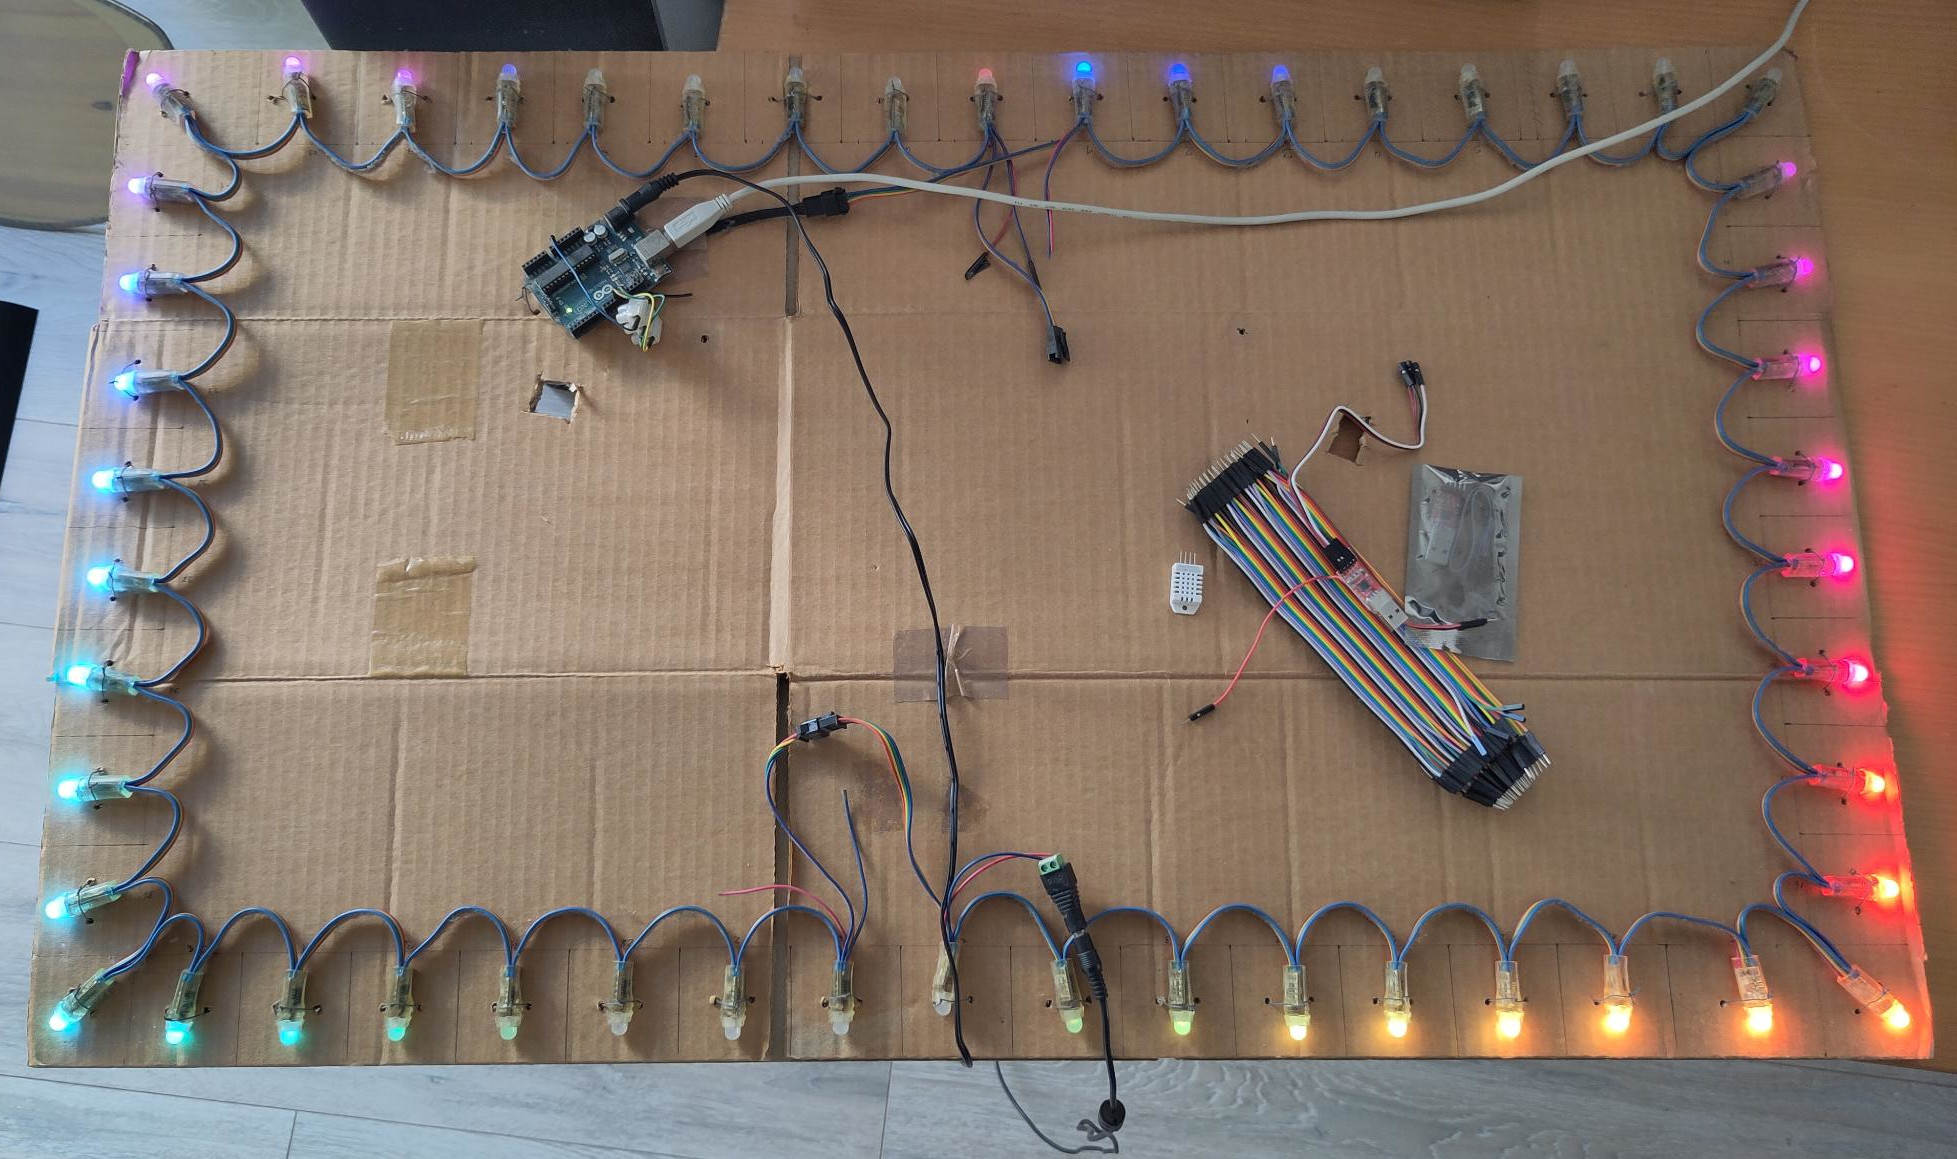
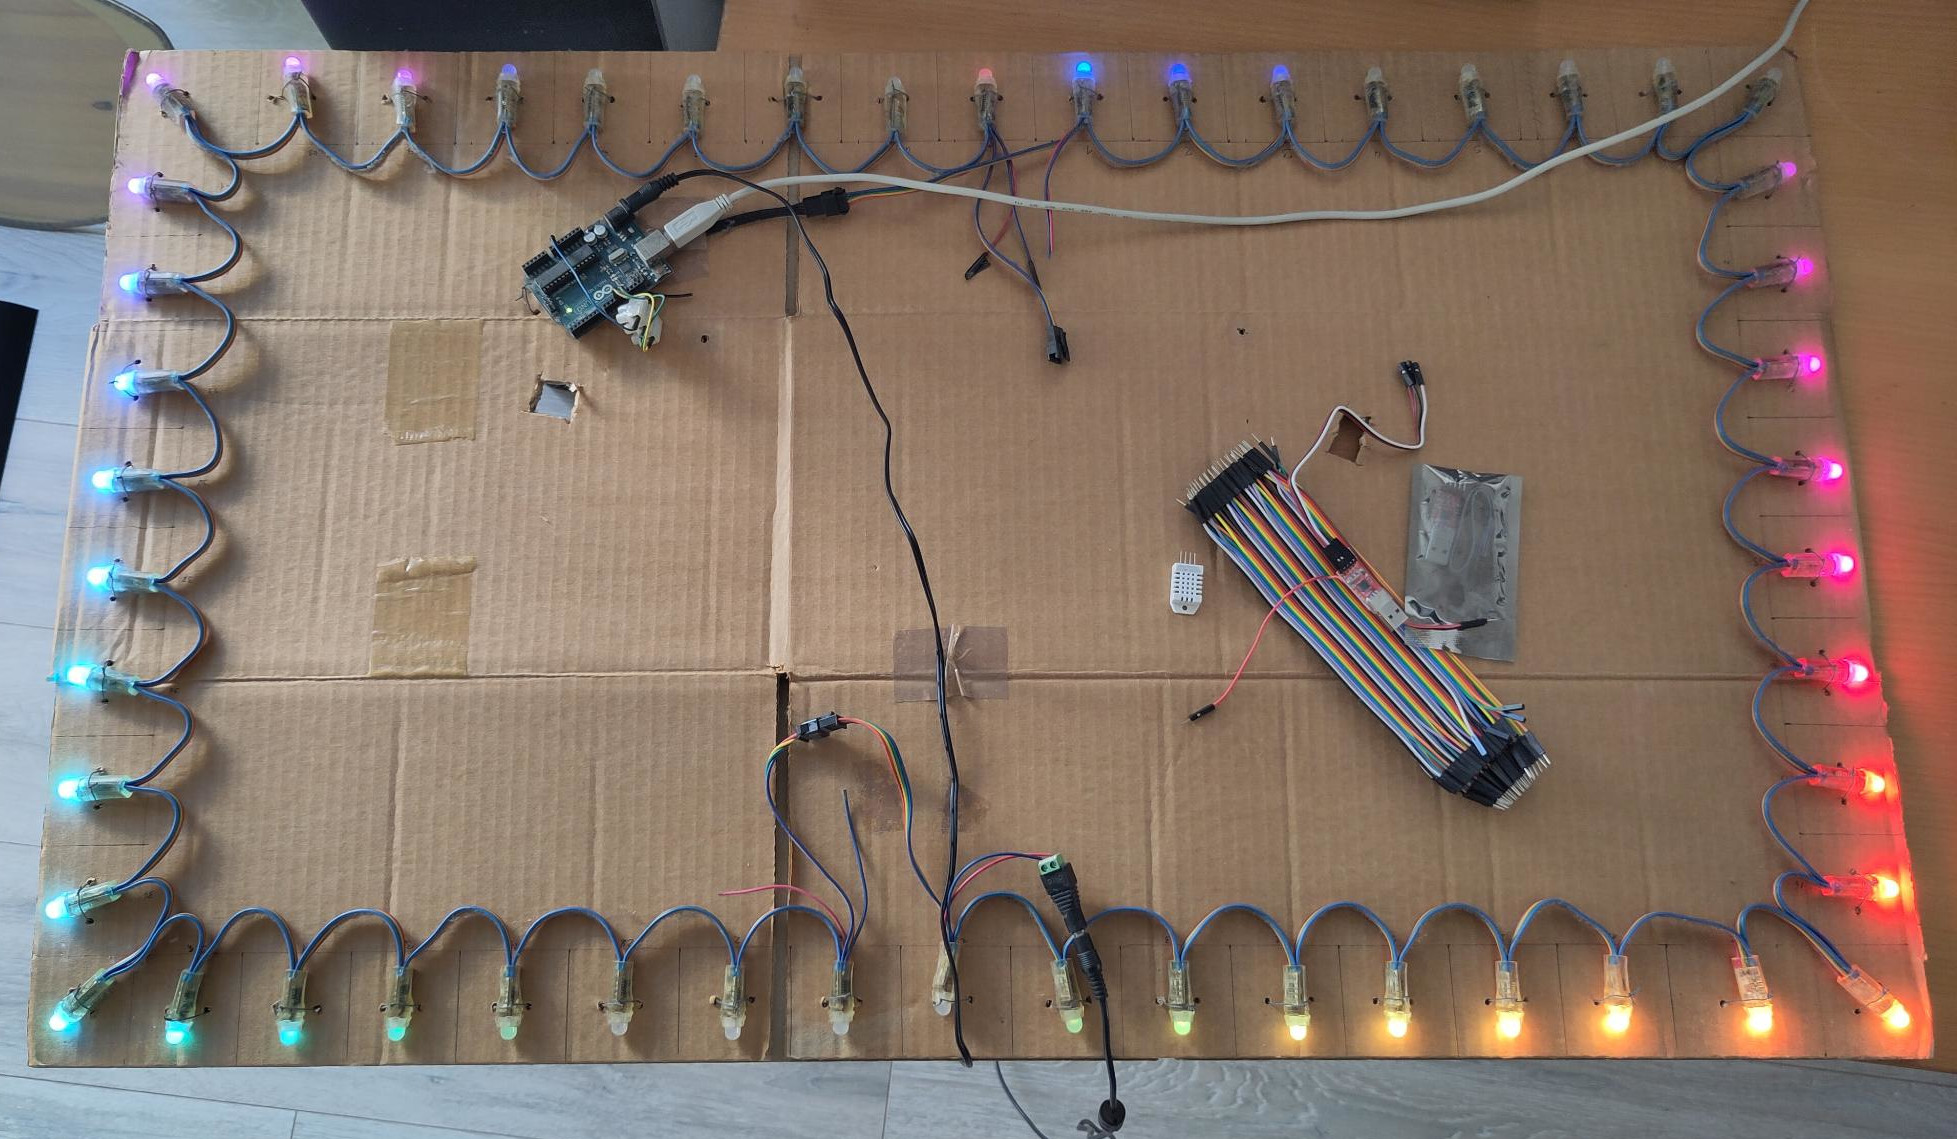
Make markdown Github conform.

diff --git a/README.md b/README.md
@@ -1,10 +1,17 @@
 # AdalightCockpit
 
-| | |
-|---:|:---|
-| ![Img A](res/Screenshot_2.jpg) | ![Img B](res/Screenshot_3.jpg) |
-| ![Img C](res/Screenshot_4.jpg) | ![Img D](res/Screenshot_5.jpg) |
-| ![Img E](res/Screenshot_6.jpg) | ![Img F](res/Screenshot_1.jpg) |
+
+  <img src="res/Screenshot_2.jpg" width="300" alt="Adalight photo 2"/>
+  <img src="res/Screenshot_3.jpg" width="300" alt="Adalight photo 3"/>
+
+  <img src="res/Screenshot_4.jpg" width="300" alt="Adalight photo 4"/>
+  <img src="res/Screenshot_5.jpg" width="300" alt="Adalight photo 5"/>
+
+  <img src="res/Screenshot_6.jpg" width="300" alt="Adalight photo 6"/>
+  <img src="res/Screenshot_1.jpg" width="300" alt="AdalightCockpit Screenshot"/>
+
+<br/>
+<br/>
 
 Small Java control panel (cockpit) for my Adalight.
 